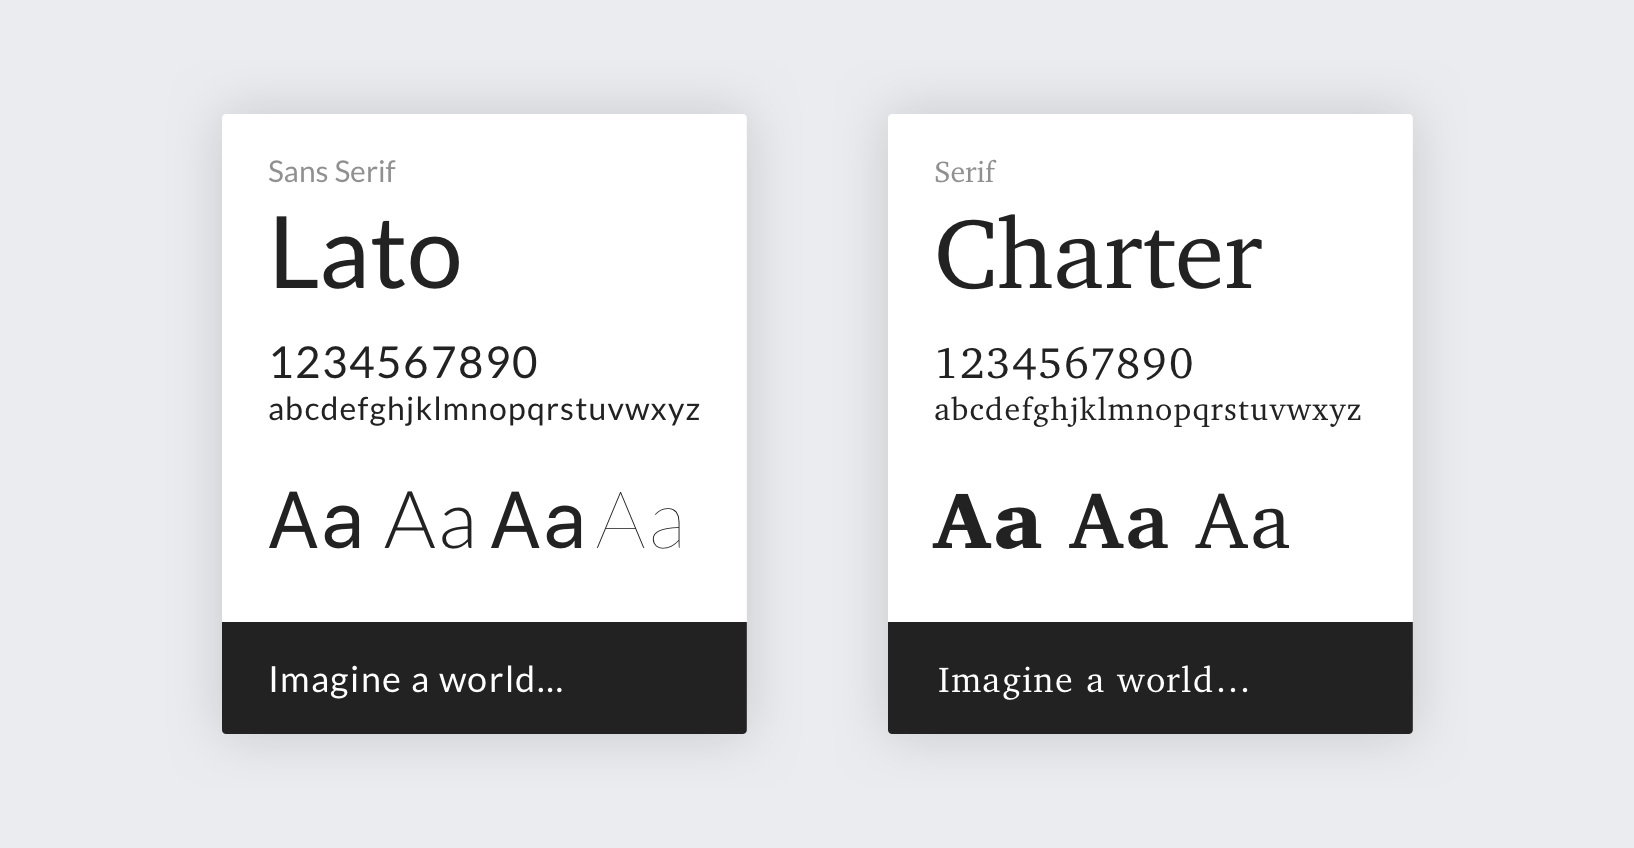
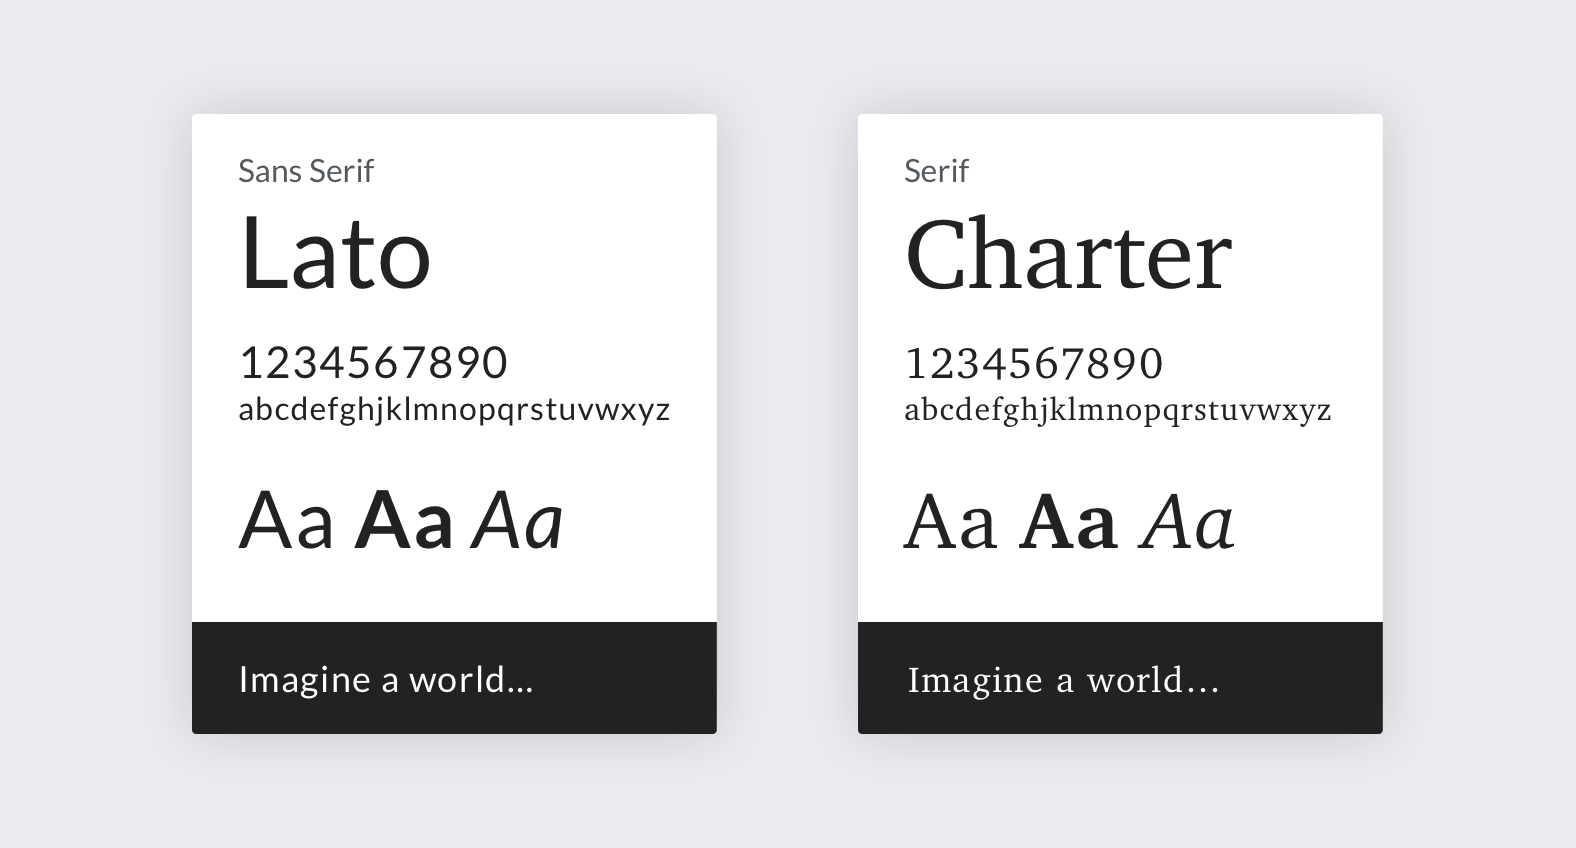
Imagery: Update imagery Sketch file to latest & fix specimen Updating imagery Sketch file to latest iteration, also resolving artboard canvas issues and cleaning up file contents. Fixing specimen image as SVG `letter-spacing` isn't supported currently by any browser and therefore we need to rely on 

diff --git a/visual-style_typography.html b/visual-style_typography.html
@@ -62,7 +62,7 @@
 					<h1 class="page__title">Typography</h1>
 
 					<p>Wikimedia projects rely on writing and reading. Typography is a key component of their design. Consider the typeface, size, style, and spacing of your text to achieve good <a href="https://en.wikipedia.org/wiki/Readability">readability</a>. Our typographic choices make our content accessible, present it in a neutral way, and convey its reliability.</p>
-					<img src="img/visual-style/typography-specimen.svg" onerror="this.src='img/visual-style/typography-specimen.png'" alt="Lato and Charter typeface specimen" role="img">
+					<img src="img/visual-style/typography-specimen@2x.png" alt="Lato and Charter typeface specimen" role="img">
 
 					<section id="readability">
 						<h2>Readability</h2>
